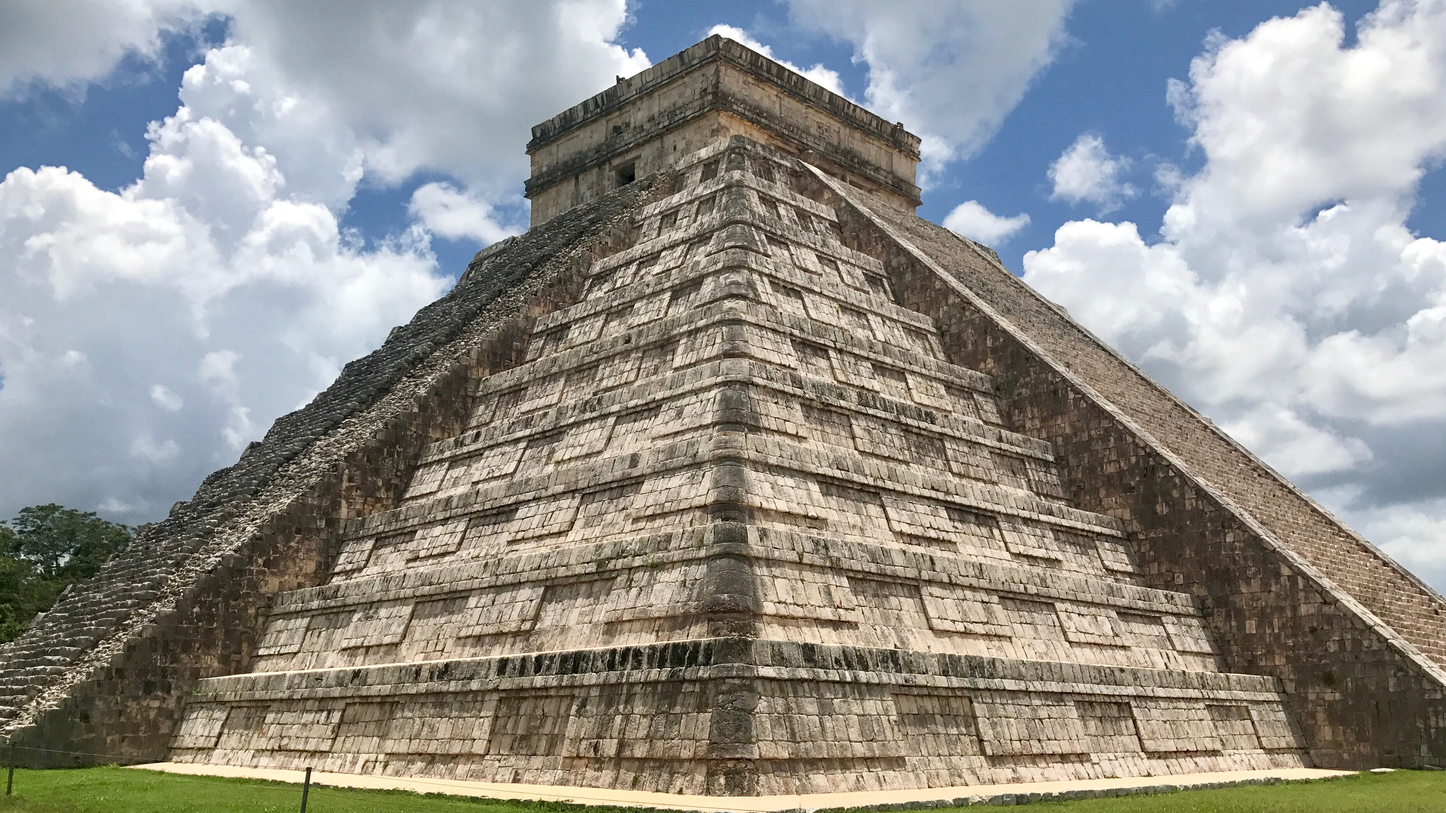
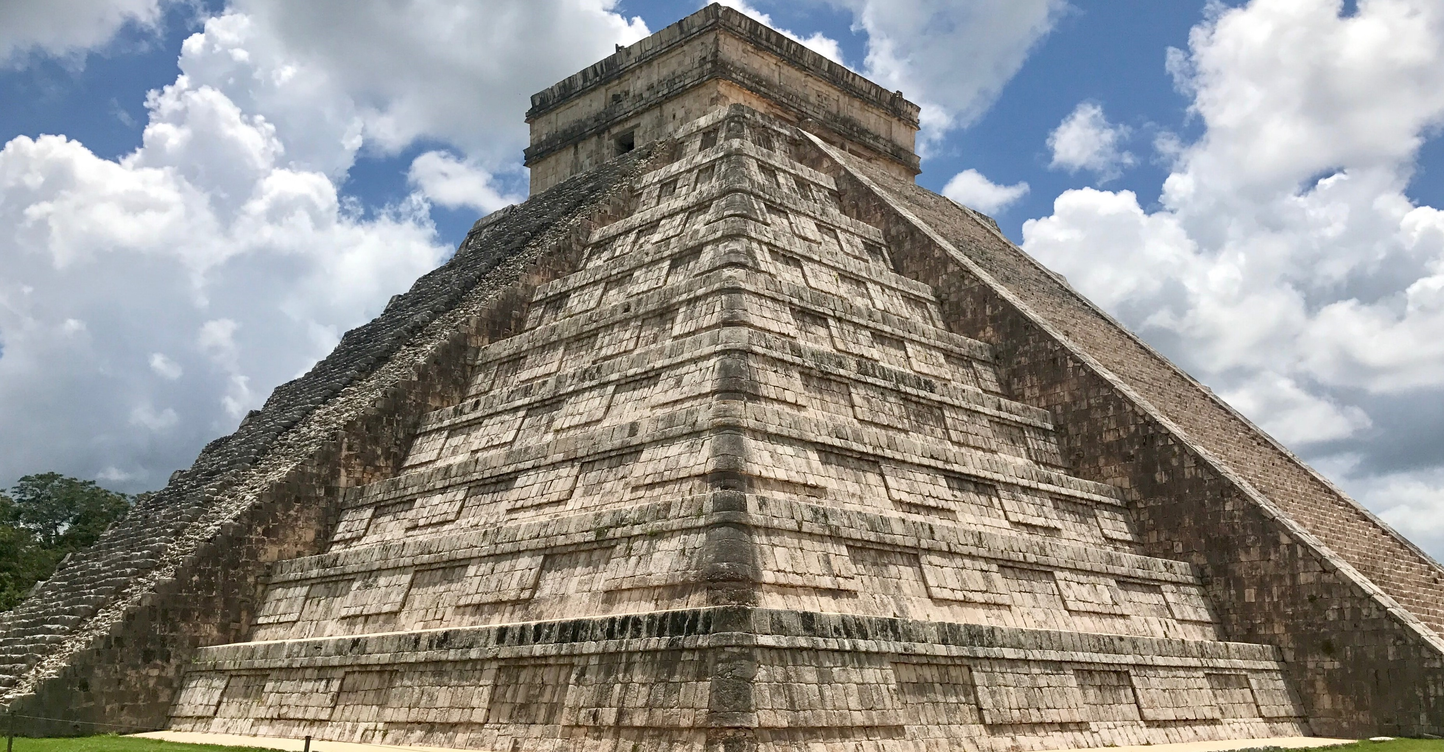
page 5

diff --git a/NA.html b/NA.html
@@ -59,7 +59,7 @@
             <div class="col-sm-12">
                 <div class="jumbotron jumbotron-fluid">
                     <div class="container">
-                        <h1 class="display-3"><b>Amazing Asia!</b></h1>
+                        <h1 class="display-3"><b>North America!</b></h1>
                             <p class="lead"><b>Better to see something once than hear about it a thousand times.</b></p>
                     </div>
                 </div>
@@ -83,11 +83,11 @@
             <div class="col-sm-12">
              <div class="row">
                 <div class="col-sm-12 col-md-4">
-                    <img class="img-fluid imgCenter" src="assets/mount_fuji.jpg">
+                    <img class="img-fluid imgCenter" src="assets/antelope.jpg">
                     <div class="row">
                     <div class="col-sm-12">
                        <div class="coolStuffWrapper">
-                           <button type="button" class="btn btn-lg btn-primary coolStuffBtn" data-toggle="modal" data-target="#NA1">Mount Fuji</button>
+                           <button type="button" class="btn btn-lg btn-primary coolStuffBtn" data-toggle="modal" data-target="#NA1">Antelope Canyon</button>
              </div>
 <!--            instead of grabbing the modal by an id we hv grabbed it using a class-->
                         </div>
@@ -95,11 +95,11 @@
                  </div>
                  
                   <div class="col-sm-12 col-md-4">
-                    <img class="img-fluid imgCenter" src="assets/StPetersberg.jpg">
+                    <img class="img-fluid imgCenter" src="assets/yellowstone.jpg">
                     <div class="row">
                     <div class="col-sm-12">
                        <div class="coolStuffWrapper">
-              <button type="button" class="btn btn-lg btn-primary coolStuffBtn" data-toggle="modal" data-target="#NA2">St. Petersberg</button> 
+              <button type="button" class="btn btn-lg btn-primary coolStuffBtn" data-toggle="modal" data-target="#NA2">Yellowstone National Park</button> 
              </div>
 <!--            instead of grabbing the modal by an id we hv grabbed it using a class-->
                         </div>
@@ -107,11 +107,11 @@
                  </div>
                  
                   <div class="col-sm-12 col-md-4">
-                    <img class="img-fluid imgCenter" src="assets/Mehrangarh%20fort.jpg">
+                    <img class="img-fluid imgCenter" src="assets/niagara.jpg">
                     <div class="row">
                     <div class="col-sm-12">
                        <div class="coolStuffWrapper">
-             <button type="button" class="btn btn-lg btn-primary coolStuffBtn" data-toggle="modal" data-target="#NA3">Mehrangarh Fort</button>
+             <button type="button" class="btn btn-lg btn-primary coolStuffBtn" data-toggle="modal" data-target="#NA3">Niagara Falls</button>
              </div>
 <!--            instead of grabbing the modal by an id we hv grabbed it using a class-->
                         </div>
@@ -129,11 +129,11 @@
             <div class="col-sm-12">
              <div class="row">
                 <div class="col-sm-12 col-md-4">
-                    <img class="img-fluid imgCenter" src="assets/Boracay.jpg">
+                    <img class="img-fluid imgCenter" src="assets/ChichenItza.jpg">
                     <div class="row">
                     <div class="col-sm-12">
                        <div class="coolStuffWrapper">
-                           <button type="button" class="btn btn-lg btn-primary coolStuffBtn" data-toggle="modal" data-target="#NA4">Boracay</button>
+                           <button type="button" class="btn btn-lg btn-primary coolStuffBtn" data-toggle="modal" data-target="#NA4">Chichen Itza</button>
              </div>
 <!--            instead of grabbing the modal by an id we hv grabbed it using a class-->
                         </div>
@@ -141,11 +141,11 @@
                  </div>
                  
                   <div class="col-sm-12 col-md-4">
-                    <img class="img-fluid imgCenter" src="assets/lake-segara-anak-mt-rinjani.jpg">
+                    <img class="img-fluid imgCenter" src="assets/disneyland.jpg">
                     <div class="row">
                     <div class="col-sm-12">
                        <div class="coolStuffWrapper">
-              <button type="button" class="btn btn-lg btn-primary coolStuffBtn" data-toggle="modal" data-target="#NA5">Segara Anak Lake</button> 
+              <button type="button" class="btn btn-lg btn-primary coolStuffBtn" data-toggle="modal" data-target="#NA5">Disneyland</button> 
              </div>
 <!--            instead of grabbing the modal by an id we hv grabbed it using a class-->
                         </div>
@@ -153,11 +153,11 @@
                  </div>
                  
                   <div class="col-sm-12 col-md-4">
-                    <img class="img-fluid imgCenter" src="assets/TempleOfHeaven.jpg">
+                    <img class="img-fluid imgCenter" src="assets/bryce.jpg">
                     <div class="row">
                     <div class="col-sm-12">
                        <div class="coolStuffWrapper">
-             <button type="button" class="btn btn-lg btn-primary coolStuffBtn" data-toggle="modal" data-target="#NA6">Temple Of Heaven</button>
+             <button type="button" class="btn btn-lg btn-primary coolStuffBtn" data-toggle="modal" data-target="#NA6">Bryce Canyon National Park</button>
              </div>
 <!--            instead of grabbing the modal by an id we hv grabbed it using a class-->
                         </div>
@@ -220,7 +220,7 @@
   <div class="modal-dialog" role="document">
     <div class="modal-content">
       <div class="modal-header">
-        <h5 class="modal-title" id="contentLabel">Mount Fuji</h5>
+        <h5 class="modal-title" id="contentLabel">Antelope Canyon</h5>
         <button type="button" class="close" data-dismiss="modal" aria-label="Close">
           <span aria-hidden="true">&times;</span>
         </button>
@@ -229,18 +229,17 @@
         <div class="container-fluid">
             <div class="row">
             <div class="col-sm-12">
-                <img class="img-fluid continentImg" src="assets/mount_fuji.jpg" >
+                <img class="img-fluid continentImg" src="assets/antelope.jpg" >
                 </div>
             </div>
             <div class="row">
                 <div class="col-sm-12">
                 <div class="modalFormWrapper">
-                    <p>Mount Fuji is an active volcano and the highest peak of the country.It is also considered as one of the 3 sacred mountains. One can see tokyo on a clear day from Mount Fuji.</p>
-                    <p><b>Location:</b>  Chūbu region, Honshu, Japan</p>
-                     <p><b>Elevation:</b> 3,776 m</p>
-                    <p><b>Last Erruption:</b> 16 December 1707</p>
-                     <p><b>Best time to visit:</b> October and February, with December and January being the highest in terms of visibility.</p>
-                    <p><b>Other places to visit nearby:</b> Kawaguchiko Lake, Houtou Fudou, Shiraito Falls, Fujiyoshida Sengen Shrine and many more.</p>
+                    <p>Antelope Canyon is the most photographed Canyon in the world. It includes two separate, scenic slot canyon sections, referred to as Upper Antelope Canyon, and Lower Antelope Canyon.</p>
+                    <p><b>Location:</b> Arizona</p>
+                     <p><b>Floor Elevation:</b> 3,704 ft </p>
+                     <p><b>Best time to visit:</b> Between the end of March and early October</p>
+                    <p><b>Other places to visit nearby:</b> Horseshoe Bend, Navajo Village Heritage Center, Glen Canyon Dam Overlook and many more.</p>
                     
                 </div>
                     </div>
@@ -261,7 +260,7 @@
   <div class="modal-dialog" role="document">
     <div class="modal-content">
       <div class="modal-header">
-        <h5 class="modal-title" id="contentLabel">St. Petersberg</h5>
+        <h5 class="modal-title" id="contentLabel">Yellowstone National Park</h5>
         <button type="button" class="close" data-dismiss="modal" aria-label="Close">
           <span aria-hidden="true">&times;</span>
         </button>
@@ -270,16 +269,17 @@
         <div class="container-fluid">
             <div class="row">
             <div class="col-sm-12">
-                <img class="img-fluid continentImg" src="assets/StPetersberg.jpg" >
+                <img class="img-fluid continentImg" src="assets/yellowstone.jpg" >
                 </div>
             </div>
             <div class="row">
                 <div class="col-sm-12">
                 <div class="modalFormWrapper">
-                    <p>St. Petersburg is a Russian port city on the Baltic Sea.It remains Russia's cultural center, with venues such as the Mariinsky Theatre hosting opera and ballet, and the State Russian Museum showcasing Russian art, from Orthodox icon paintings to Kandinsky works.</p>
-                    <p><b>Location:</b> Russia</p>
-                     <p><b>Best time to visit:</b> mid-June to September.</p>
-                    <p><b>Other places to visit nearby:</b> Neva River, Hermitage Museum, St Isaac's Cathedral, Winter Palace and many more.</p>
+                    <p>It is a wilderness recreation area atop a volcanic hot spot.Yellowstone features dramatic canyons, alpine rivers, lush forests, hot springs and gushing geysers, including its most famous, Old Faithful.It's also home to hundreds of animal species.</p>
+                    <p><b>Location:</b> Idaho, Montana, and Wyoming, USA</p>
+                    <p><b>Established:</b> 1 March 1872</p>
+                     <p><b>Best time to visit:</b> From April to May and between September and October</p>
+                    <p><b>Other places to visit nearby:</b> Grand Tetons National Park, Virginia City, Western town of Cody and many more.</p>
                     
                 </div>
                     </div>
@@ -299,7 +299,7 @@
   <div class="modal-dialog" role="document">
     <div class="modal-content">
       <div class="modal-header">
-        <h5 class="modal-title" id="contentLabel">Mehrangarh Fort</h5>
+        <h5 class="modal-title" id="contentLabel">Niagara Falls</h5>
         <button type="button" class="close" data-dismiss="modal" aria-label="Close">
           <span aria-hidden="true">&times;</span>
         </button>
@@ -308,17 +308,17 @@
         <div class="container-fluid">
             <div class="row">
             <div class="col-sm-12">
-                <img class="img-fluid continentImg" src="assets/Mehrangarh%20fort.jpg" >
+                <img class="img-fluid continentImg" src="assets/niagara.jpg" >
                 </div>
             </div>
             <div class="row">
                 <div class="col-sm-12">
                 <div class="modalFormWrapper">
-                    <p>Mehrangarh Fort stands a hundred feet in splendor on a perpendicular cliff, four hundred feet above the sky line of Jodhpur. Burnished red sand stone, imposing, invincible and yet with a strange haunting beauty that beckons . Much has been written about the Citadel of the Sun, for truly, it is one of the most impressive in all Rajasthan. So colossal are its proportions that Rudyard Kipling called it “ the work of giants”. </p>
-                    <p><b>Location:</b> Jodhpur,India</p>
-                     <p><b>Built in:</b> 1459 by Rao Jodha</p>
-                     <p><b>Best time to visit:</b> Mid October to Mid March</p>
-                    <p><b>Other places to visit nearby:</b> Rao Jodha Desert Rock Park,Umaid Bhawan Palace Museum, Mandore Garden,Aswant Thada, and many more.</p>
+                    <p>Niagara Falls,is a group of three waterfalls at the southern end of Niagara Gorge .Its site on the Niagara River's western shore overlooks the Horseshoe Falls, the cascades' most expansive section.</p>
+                    <p><b>Location:</b> USA</p>
+                     <p><b>Elevation:</b> 99 m</p>
+                     <p><b>Best time to visit:</b> June to August</p>
+                    <p><b>Other places to visit nearby:</b> Horseshoe Falls, Cave of the winds and many more.</p>
                     
                 </div>
                     </div>
@@ -337,7 +337,7 @@
   <div class="modal-dialog" role="document">
     <div class="modal-content">
       <div class="modal-header">
-        <h5 class="modal-title" id="contentLabel">Boracay</h5>
+        <h5 class="modal-title" id="contentLabel">Chichen Itza</h5>
         <button type="button" class="close" data-dismiss="modal" aria-label="Close">
           <span aria-hidden="true">&times;</span>
         </button>
@@ -346,17 +346,16 @@
         <div class="container-fluid">
             <div class="row">
             <div class="col-sm-12">
-                <img class="img-fluid continentImg" src="assets/Boracay.jpg" >
+                <img class="img-fluid continentImg" src="assets/ChichenItza.jpg" >
                 </div>
             </div>
             <div class="row">
                 <div class="col-sm-12">
                 <div class="modalFormWrapper">
-                    <p>The island comprises the barangays of Manoc-Manoc, Balabag, and Yapak in the municipality of Malay, in Aklan Province. Apart from its white sand beaches, Boracay is also famous for being one of the world's top destinations for relaxation.It has been awarded as the best island of the world in the years 2012 and 2014.</p>
-                    <p><b>Location:</b> Boracay, Philippines</p>
-                     <p><b>Area:</b> 0.32 km²</p>
-                     <p><b>Best time to visit:</b> November to April</p>
-                    <p><b>Other islands to visit nearby:</b> Crystal Cove Island, Crocodile Island, Panay Island, Carabao Island, Magic Island.</p>
+                    <p>Chichen Itza is an archaeological site in Yucatan and one of the most visited locations in Mexico. Rich in history and the centre of pilgrimage for the ancient Maya civilization for over 1,000 years.</p>
+                    <p><b>Location:</b> Yucatan, Mexico</p>
+                     <p><b>Best time to visit:</b> November through March</p>
+                    <p><b>Other islands to visit nearby:</b> El Castillo, Ik Kil, Sacred Cenote and many more.</p>
                     
                 </div>
                     </div>
@@ -375,7 +374,7 @@
   <div class="modal-dialog" role="document">
     <div class="modal-content">
       <div class="modal-header">
-        <h5 class="modal-title" id="contentLabel">Segara Anak Lake</h5>
+        <h5 class="modal-title" id="contentLabel">Disneyland</h5>
         <button type="button" class="close" data-dismiss="modal" aria-label="Close">
           <span aria-hidden="true">&times;</span>
         </button>
@@ -384,16 +383,16 @@
         <div class="container-fluid">
             <div class="row">
             <div class="col-sm-12">
-                <img class="img-fluid continentImg" src="assets/lake-segara-anak-mt-rinjani.jpg" >
+                <img class="img-fluid continentImg" src="assets/disneyland.jpg" >
                 </div>
             </div>
             <div class="row">
                 <div class="col-sm-12">
                 <div class="modalFormWrapper">
-                    <p>Segara Anak is a crater lake in the caldera that formed during the explosive volcanic eruption of Mount Samalas in 1257. The mystifyingly blue colour of the lake gives Segara Anak its name: Small Ocean.</p>
-                    <p><b>Location:</b> Lombok Island, Indonesia</p>
-                     <p><b>Area:</b> 11.3 km²</p>
-                    <p><b>Other places to visit in Indonesia:</b> Gili Islands, Mount Bromo, Beaches of Bali,  Lake Toba and many more.</p>
+                    <p> It is the first of two theme parks built at the Disneyland Resort and the only theme park designed and built to completion under the direct supervision of Walt Disney.</p>
+                    <p><b>Location:</b> Anaheim, California</p>
+                     <p><b>Opened:</b> 17 July 1955</p>
+                    <p><b>Things to do near Disneyland:</b> Go See a Show at House of Blues Anaheim, Watch a Baseball Game at Angel Stadium and many more.</p>
                     
                 </div>
                     </div>
@@ -414,7 +413,7 @@
   <div class="modal-dialog" role="document">
     <div class="modal-content">
       <div class="modal-header">
-        <h5 class="modal-title" id="contentLabel">Temple of Heaven</h5>
+        <h5 class="modal-title" id="contentLabel">Bryce Canyon National Park</h5>
         <button type="button" class="close" data-dismiss="modal" aria-label="Close">
           <span aria-hidden="true">&times;</span>
         </button>
@@ -423,16 +422,17 @@
         <div class="container-fluid">
             <div class="row">
             <div class="col-sm-12">
-                <img class="img-fluid continentImg" src="assets/TempleOfHeaven.jpg" >
+                <img class="img-fluid continentImg" src="assets/bryce.jpg" >
                 </div>
             </div>
             <div class="row">
                 <div class="col-sm-12">
                 <div class="modalFormWrapper">
-                    <p>The Temple of Heaven is an imperial complex of religious buildings situated in the southeastern part of central Beijing. The complex was visited by the Emperors of the Ming and Qing dynasties for annual ceremonies of prayer to Heaven for good harvest.</p>
-                    <p><b>Location:</b> Beijing, China</p>
-                     <p><b>Built from:</b> 1406 to 1420</p>
-                    <p><b>Other places to visit nearby:</b>  Hongqiao Market, Tiananmen Square, The Palace Museum and many more.</p>
+                    <p>The sprawling is known for crimson-colored hoodoos, which are spire-shaped rock formations. The major feature of the park is the collection of giant natural amphitheaters along the eastern side of the Paunsaugunt Plateau.</p>
+                    <p><b>Location:</b> Utah, United States</p>
+                    <p><b>Area:</b> 145 km²</p>
+                     <p><b>Established:</b> 25 February 1928</p>
+                    <p><b>Other places to visit nearby:</b> Navajo loop trail, Queens garden trail, Inspiration point and many more.</p>
                     
                 </div>
                     </div>
